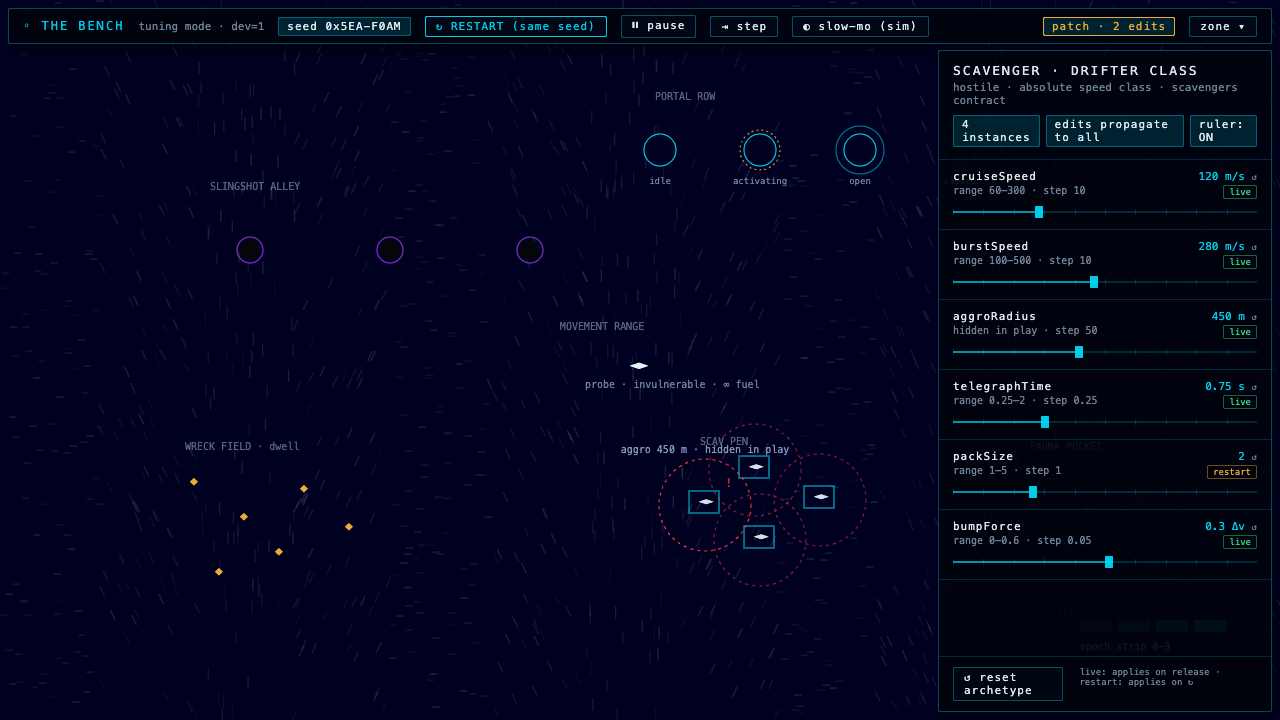
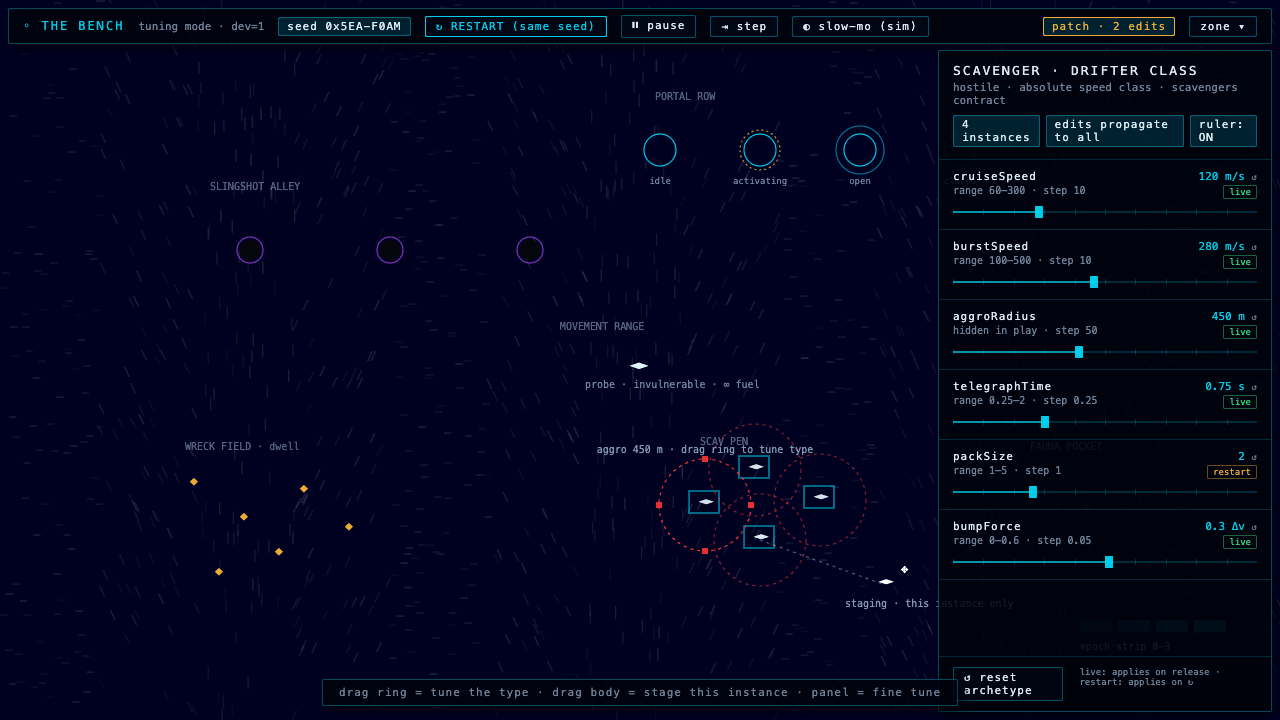
Docs: Bench interaction model v2 — direct manipulation primary (ring handles, staging drags, panel = fine tune); mockups updated
Claude-Session: https://claude.ai/code/session_01GTFwj4MhovZ4wV6mZpdH91

diff --git a/docs/v0.3/reviews/bench-mockups/bench-mock.html b/docs/v0.3/reviews/bench-mockups/bench-mock.html
@@ -76,7 +76,7 @@
     <span class="spacer"></span><span class="muted" style="font-size:9px">live: applies on release · restart: applies on ↻</span></div>
 </div>
 
-<div class="panel" id="hint">click any entity to inspect its archetype</div>
+<div class="panel" id="hint">drag ring = tune the type · drag body = stage this instance · panel = fine tune</div>
 
 <div class="panel" id="patch">
   <div class="ihead"><div class="iname">TUNING PATCH</div>
@@ -115,8 +115,17 @@ function drawWorld(state){
   // slingshot alley
   HOLES.forEach((h,i)=>{ g.fillStyle='#05060c'; g.beginPath(); g.arc(h.x,h.y,10,0,6.29); g.fill();
     g.strokeStyle='rgba(184,76,255,0.7)'; g.beginPath(); g.arc(h.x,h.y,13,0,6.29); g.stroke();
-    if(state===2){ ring(h.x,h.y,58,'rgba(0,226,255,0.9)',[4,4], i===2?'capture 450 m · step 25 m':null);
-      g.strokeStyle='rgba(0,226,255,0.35)'; g.strokeRect(h.x-70,h.y-70,140,140); } });
+    if(state===2){
+      const dragging = i===0, r = dragging?66:66; // all instances live-updated by the drag
+      if(dragging){ ring(h.x,h.y,58,'rgba(0,226,255,0.25)',[2,4],null); } // pre-drag ghost
+      ring(h.x,h.y,r,'rgba(0,226,255,0.95)',[4,4], i===2?'capture 475 m · step 25':null);
+      [[r,0],[0,r],[-r,0],[0,-r]].forEach(([dx,dy])=>{ g.fillStyle= dragging&&dx===r?'#fff':'rgba(0,226,255,0.95)';
+        g.fillRect(h.x+dx-3,h.y+dy-3,6,6); });
+      if(dragging){ g.fillStyle='#fff'; g.font='11px Menlo, monospace';
+        g.fillText('475 m  (+1 step)', h.x-46, h.y+r+20);
+        g.fillText('↔', h.x+r+6, h.y+4); }
+      else { g.fillStyle='rgba(0,226,255,0.8)'; g.font='9px Menlo, monospace';
+        g.fillText('+1', h.x+r+6, h.y-6); } } });
   if(state===2){ // magnetism cone + ghost on first hole
     const h=HOLES[0]; g.strokeStyle='rgba(56,245,138,0.6)';
     g.beginPath(); g.moveTo(h.x-110,h.y+66); g.lineTo(h.x-30,h.y+18); g.stroke();
@@ -131,8 +140,19 @@ function drawWorld(state){
   SCAVS.forEach(s=>{ g.fillStyle='rgba(234,247,255,0.9)'; g.font='12px Menlo, monospace'; g.fillText('◄►',s[0]-6,s[1]);
     if(state===3){ ring(s[0],s[1],46,'rgba(255,51,54,0.55)',[3,4],null);
       g.strokeStyle='rgba(0,226,255,0.8)'; g.strokeRect(s[0]-16,s[1]-14,30,22); } });
-  if(state===3){ ring(SCAVS[0][0],SCAVS[0][1],46,'rgba(255,51,54,0.9)',[3,4],'aggro 450 m · hidden in play');
-    g.fillStyle='rgba(255,51,54,0.9)'; g.font='12px Menlo, monospace'; g.fillText('!', SCAVS[0][0]+20, SCAVS[0][1]-18); }
+  if(state===3){ ring(SCAVS[0][0],SCAVS[0][1],46,'rgba(255,51,54,0.9)',[3,4],'aggro 450 m · drag ring to tune type');
+    [[46,0],[0,46],[-46,0],[0,-46]].forEach(([dx,dy])=>{ g.fillStyle='rgba(255,51,54,0.9)';
+      g.fillRect(SCAVS[0][0]+dx-3,SCAVS[0][1]+dy-3,6,6); });
+    // instance staging: ghost origin + leader line + move cursor
+    const gx=885,gy=585;
+    g.globalAlpha=0.35; g.fillStyle='rgba(234,247,255,0.9)'; g.font='12px Menlo, monospace';
+    g.fillText('◄►',SCAVS[1][0]-6,SCAVS[1][1]); g.globalAlpha=1;
+    g.strokeStyle='rgba(154,180,206,0.5)'; g.setLineDash([3,4]); g.beginPath();
+    g.moveTo(SCAVS[1][0],SCAVS[1][1]); g.lineTo(gx,gy); g.stroke(); g.setLineDash([]);
+    g.fillStyle='#fff'; g.font='12px Menlo, monospace'; g.fillText('◄►',gx-6,gy);
+    g.fillText('✥', gx+16, gy-12);
+    g.fillStyle='rgba(154,180,206,0.85)'; g.font='10px Menlo, monospace';
+    g.fillText('staging · this instance only', gx-40, gy+22); }
   // portal row
   PORTALS.forEach(p=>{ const col = p.s==='closed'?'rgba(0,226,255,0.25)':'rgba(0,226,255,0.9)';
     ring(p.x,p.y,16,col,null,null); if(p.s==='open') ring(p.x,p.y,24,'rgba(0,226,255,0.5)');
@@ -161,7 +181,7 @@ const CONTRACTS={
       ['gravityStrengthMult','1.15×','range 0.8–1.6 · step 0.05','restart',0.44],
       ['killRadius','0.05 wu','range 0.02–0.1 · step 0.01','restart',0.33],
       ['__group','LINKED CONTRACT · SLINGSHOT','system-wide — not per-archetype','',0],
-      ['captureRadius','450 m','range 200–800 · step 25','live',0.42],
+      ['captureRadius','475 m ← dragging','range 200–800 · step 25','live',0.46],
       ['magnetism','30°','range 0–60 · step 5','live',0.5],
       ['coyoteTime','50 ms','range 0–250 · step 50','live',0.2],
       ['payoffCurve','1.4× / qtr-turn','range 1.0–2.0 · step 0.1','live',0.4],
@@ -194,9 +214,9 @@ window.showMock=function(n){
   document.getElementById('hint').style.display='block';
   document.getElementById('patchPill').textContent='patch · 0 edits';
   drawWorld(n);
-  if(n===2){ showInspector('hole'); document.getElementById('hint').style.display='none';
+  if(n===2){ showInspector('hole');
     document.getElementById('patchPill').textContent='patch · 1 edit'; }
-  if(n===3){ showInspector('scav'); document.getElementById('hint').style.display='none';
+  if(n===3){ showInspector('scav');
     document.getElementById('patchPill').textContent='patch · 2 edits'; }
   if(n===4){ document.getElementById('hint').style.display='none';
     document.getElementById('patchPill').textContent='patch · 2 edits';

diff --git a/docs/v0.3/reviews/v0.3.1-tuning-mode-spec.md b/docs/v0.3/reviews/v0.3.1-tuning-mode-spec.md
@@ -83,20 +83,39 @@ selection; everything is absent from release builds. Completion MD to
 `docs/v0.3/reviews/completions/` per the standing contract — include a
 capture of the inspector open over the slingshot alley.
 
-## Interaction model (ratified; mockups encode this)
+## Interaction model v2 (GREG 2026-07-17: direct manipulation primary)
 
-- **Live knobs hot-apply on slider release** — there is NO apply button;
-  the ruler contract's slider-moves-geometry-same-frame rule is the
-  interaction. Restart knobs bank until ↻ RESTART (same seed).
-- **Reset is per-knob (row glyph) and per-archetype (footer).**
-- **Inspector is archetype-first**: the entity's own contract leads;
-  system-wide contracts that surface through this entity (e.g. the
-  slingshot contract on wells/holes) appear under an explicit
-  "LINKED CONTRACT" divider marked system-wide — editing them there
-  edits the system, and the panel says so.
-- Mockups: `bench-mockups/bench-mock-{1..4}.png` (gallery, micro-hole
-  inspector with linked contract, scavenger propagation, tuning patch);
-  `bench-mock.html` is the layout reference, built on UI_COLORS tokens.
+**Direct manipulation is the primary verb; the panel is fine-tuning
+only.** Think 3D-editor controls, 2D top-down:
+
+- **Every drawn affordance is a handle.** Capture rings, aggro radii,
+  telegraph arcs, territory rings render with grab handles (cardinal
+  squares). Dragging a ring edge resizes the value — snapped to the
+  contract step during the drag, live label showing `475 m (+1 step)`.
+  A ring drag IS a knob edit: type-level, so every instance's ring
+  updates mid-drag (propagation made visceral — the mock shows +1
+  markers on siblings).
+- **Drag grammar:** *drag ring = tune the type · drag body = stage this
+  instance · panel = fine tune.* Body-drags reposition that one
+  instance in the Gallery (ghost origin + leader line while dragging);
+  positions are Gallery-session staging state, never map data, never in
+  the tuning patch (a stage layout may be saved separately for repro).
+  This preserves the not-an-editor line: values ship, layouts don't.
+- **Hover/cursor language:** rings highlight + handles appear on hover;
+  ↔ cursor on ring edges, ✥ on bodies. Modifier: hold Shift for
+  unsnapped drag (snaps on release).
+- **Live knobs hot-apply on release** — no apply button anywhere.
+  Restart knobs bank until ↻ RESTART (same seed).
+- **Panel = precision:** exact numeric entry, step-nudge arrows,
+  per-knob reset (row glyph), per-archetype reset (footer), badges.
+- **Inspector is archetype-first**; system-wide contracts surfacing
+  through an entity (slingshot on wells/holes) sit under an explicit
+  "LINKED CONTRACT" divider — editing there edits the system, and the
+  panel says so.
+- Mockups: `bench-mockups/bench-mock-{1..4}.png` — gallery; micro-hole
+  inspector with ring-drag in progress + sibling propagation; scavenger
+  aggro handles + instance staging drag; tuning patch. `bench-mock.html`
+  is the layout reference, built on UI_COLORS tokens.
 
 ## Non-goals (v1)
 
